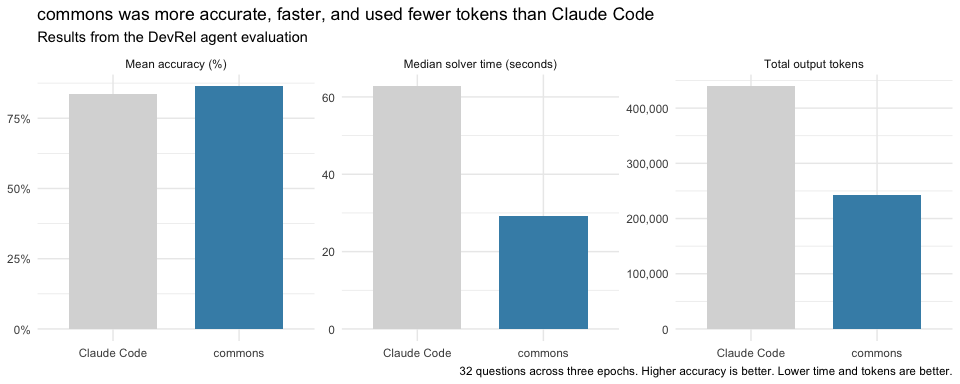
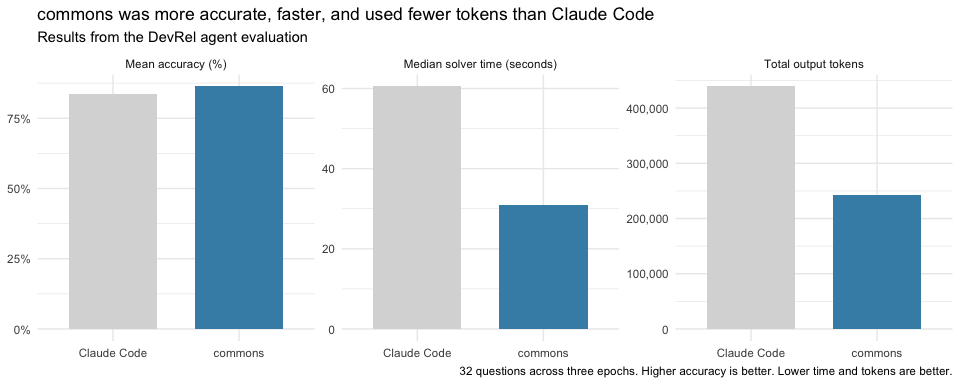
re-render readme to .md

diff --git a/README.md b/README.md
@@ -14,13 +14,13 @@ experimental](https://img.shields.io/badge/lifecycle-experimental-orange.svg)](h
 commons helps data scientists build trustworthy data agents.
 
 Data teams typically have trusted code that they use to analyze their
-data and build reports and apps. commons gives agents access to that
-information, situating it in a series of prompts and tools designed to
+data and build reports and apps. commons leverages their expertise,
+situating that information in a series of prompts and tools designed to
 create an accurate, fast, and cost-effective agent.
 
-Trusted calculations can come from R code, [data
-dictionaries](https://data-dict.tidyverse.org/), or semantic layers in
-Snowflake and Databricks.
+Trusted calculations can come from R code (as *measures*),
+[data-dictionary definitions](https://data-dict.tidyverse.org/),
+Snowflake semantic views, or Databricks metric views.
 
 <img src="https://github.com/user-attachments/assets/67dcf1f2-1496-406a-96cb-50a2e7050eeb" alt="A screencast demonstrating a commons data agent answering questions with a trusted calculation and then a direct data query. In the first case, there's a provenance pill that marks the answer as verified. In the second case, the pill reads 'Untrusted.'" width="100%" />
 
@@ -36,7 +36,7 @@ pak::pak("posit-dev/commons")
 ## Get started
 
 commons uses [ellmer](https://ellmer.tidyverse.org/) to access LLMs, so
-you will need credentials for one of ellmer’s supported providers.
+you will need access to one of ellmer’s supported providers.
 
 We recommend building commons agents with the help of the [agent
 skill](https://agentskills.io/) that ships with the package. The skill
@@ -73,12 +73,14 @@ asks a question for which trusted code is not available, the agent
 writes custom R or SQL code, leaning on additional context provided to
 the agent.
 
-Answers are tagged according to the analysis path followed, so users can
-determine how much trust to put in a given answer.
+Answers display provenance according to the analysis path followed, so
+users can determine how much trust to put in a given answer.
 
 For more information, see the [Introduction to
 commons](https://posit-dev.github.io/commons/articles/commons.html)
 vignette.
+
+<!-- Diagram source: Introduction to commons vignette. Update it there, then save the image. https://github.com/posit-dev/commons/blob/a29ac09c39c8edb99f2a9ea0ecc1836e6538bb25/vignettes/commons.Rmd#L76 -->
 
 <img src="man/figures/README-trust-flow.png" alt="A question first searches trusted calculations. The high-trust path runs a relevant trusted calculation and produces a verified answer. The lower-trust path searches context and writes custom SQL or R, producing either a cited or untrusted answer." width="100%" />
 
@@ -93,8 +95,8 @@ that compares performance between the commons agent and Claude Code.
 Both have access to the same underlying data.
 
 In this evaluation, the commons agent had higher mean accuracy (86.3%
-vs. 83.5%), took less time to answer questions (a median of 29.2
-vs. 62.7 seconds), and used fewer output tokens (243,403 vs. 439,188
+vs. 83.5%), took less time to answer questions (a median of 31.0
+vs. 60.5 seconds), and used fewer output tokens (243,403 vs. 439,188
 total).
 
 <img src="man/figures/README-eval-plot-1.png" alt="Three bar charts compare commons with Claude Code. Commons has higher mean accuracy, lower median solver time, and fewer total output tokens." width="100%" />
